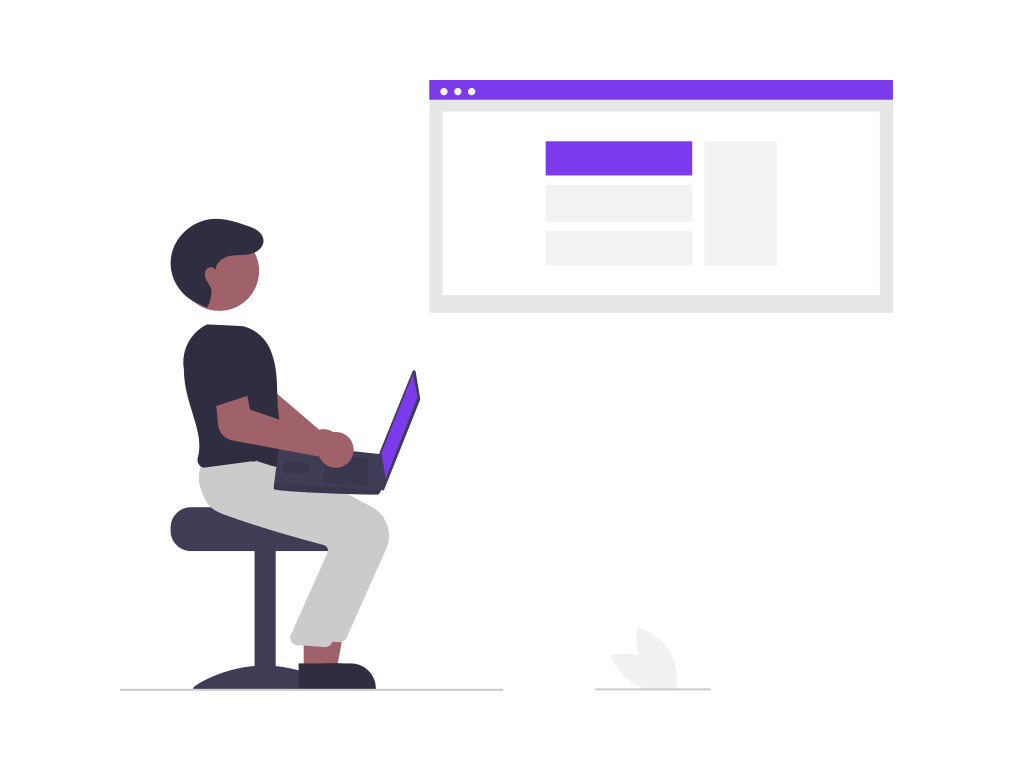
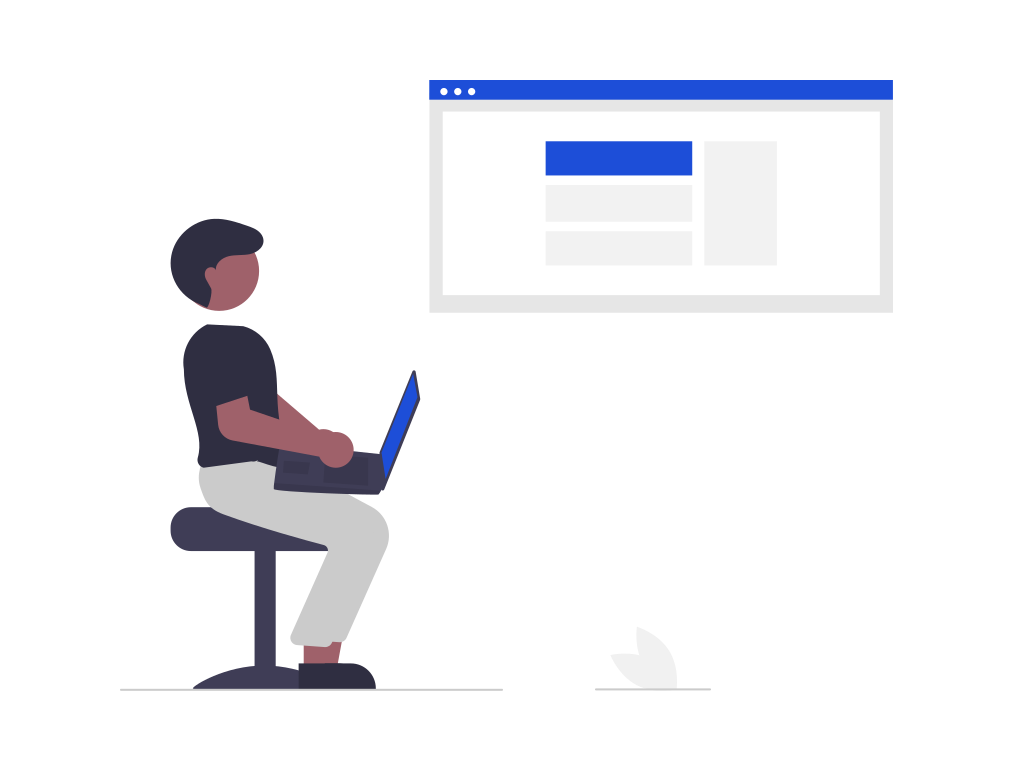
Updated projects

Changed region(s): [[0.3978, 0.0934, 0.8875, 0.249], [0.3672, 0.4981, 0.4284, 0.6226]]

diff --git a/projects.html b/projects.html
@@ -29,13 +29,173 @@
             <span class="heading-inverted">Projects</span></h1>
     </header>
 
+
     <ol reversed class="list-non-bullet">
+        
         <li>
             <section class="section section-color">
+                <div class="container container-centre">
+                    <h1>Stocks: Profit or loss indicator</h1>
+                    <small><time datetime="2021-08-12">August 12, 2021</time></small>
+                    <p>Mark 14: Profit and loss calculator (stocks)</p>
+                    <br>
+                    <p>Plase allow temporary access <a class="link link-primary" href="https://cors-anywhere.herokuapp.com/">
+                       link</a>before opening Live project</p>
+                    <br>
+                    <br>
+                    <a class="link link-primary" href="https://trusting-lumiere-a1df36.netlify.app">
+                    Live project</a>
+                    <a class="link link-secondary" href="https://github.com/SuryanshChopra/Profit-or-loss-Indicator">
+                    View Source</a>
+                </div>
+            </section>
+        </li>
+        <li>
+            <section class="section ">
+                <div class="container container-centre">
+                    <h1>Laravel React Crud</h1>
+                    <small><time datetime="2021-08-03">August 3, 2021</time></small>
+                    <p>Mark 13: Palindrome Birthday</p>
+                    <br>
+                    <a class="link link-primary" href="">
+                    Live project</a>
+                    <a class="link link-secondary" href="https://github.com/SuryanshChopra/Birthday-Palindrome">
+                    View Source</a>
+                </div>
+            </section>
+        </li>
+        <li>
+            <section class="section section-color">
+                <div class="container container-centre">
+                    <h1>Fun with Triangles</h1>
+                    <small><time datetime="2021-07-31">July 31, 2021</time></small>
+                    <p>Mark 12: Do you know your triangles? </p>
+                    <br>
+                    <a class="link link-primary" href="https://onj0g.csb.app/">
+                    Live project</a>
+                    <a class="link link-secondary" href="https://github.com/SuryanshChopra/Fun-with-traingles">
+                    View Source</a>
+                </div>
+            </section>
+        </li>
+        <li>
+            <section class="section ">
+                <div class="container container-centre">
+                    <h1>Is your birthday lucky?</h1>
+                    <small><time datetime="2021-07-29">July 29, 2021</time></small>
+                    <p>Mark 11: Is your birthday lucky? </p>
+                    <br>
+                    <a class="link link-primary" href="https://7vsin.csb.app/?#mainSection">
+                    Live project</a>
+                    <a class="link link-secondary" href="https://github.com/SuryanshChopra/is-your-birthday-lucky">
+                    View Source</a>
+                </div>
+            </section>
+        </li>
+        <li>
+            <section class="section section-color">
+                <div class="container container-centre">
+                    <h1>Cash Register</h1>
+                    <small><time datetime="2021-07-28">July 28, 2021</time></small>
+                    <p>Mark 10: Cash Register Manager </p>
+                    <br>
+                    <a class="link link-primary" href="https://xlkqn.csb.app/">
+                    Live project</a>
+                    <a class="link link-secondary" href="https://github.com/SuryanshChopra/Cash-register-app">
+                    View Source</a>
+                </div>
+            </section>
+        </li>
+        <li>
+            <section class="section ">
+                <div class="container container-centre">
+                    <h1>my anime recommendation</h1>
+                    <small><time datetime="2021-07-26">July 26, 2021</time></small>
+                    <p>Mark 9: Recommendation app </p>
+                    <br>
+                    <a class="link link-primary" href="https://us9e4.csb.app/">
+                    Live project</a>
+                    <a class="link link-secondary" href="https://github.com/SuryanshChopra/my-anime-recommendation">
+                    View Source</a>
+                </div>
+            </section>
+        </li>
+        <li>
+            <section class="section section-color">
+                <div class="container container-centre">
+                    <h1>Emoji Interpreter</h1>
+                    <small><time datetime="2021-07-25">July 25, 2021</time></small>
+                    <p>Mark 8: Know your Emoji </p>
+                    <br>
+                    <a class="link link-primary" href="https://8u69b.csb.app/">
+                    Live project</a>
+                    <a class="link link-secondary" href="https://github.com/SuryanshChopra/Emoji-Interpreter">
+                    View Source</a>
+                </div>
+            </section>
+        </li>
+        <li>
+            <section class="section">
+                <div class="container container-centre">
+                    <h1>Talk Yoda</h1>
+                    <small><time datetime="2021-07-24">July 24, 2021</time></small>
+                    <p>Mark 7: Fun Translation App</p>
+                    <br>
+                    <a class="link link-primary" href="https://yoda-suryansh.netlify.app">
+                    Live project</a>
+                    <a class="link link-secondary" href="https://github.com/SuryanshChopra/talk-yoda">
+                    View Source</a>
+                </div>
+            </section>
+        </li>
+        <li>
+            <section class="section section-color">
+                <div class="container container-centre">
+                    <h1>Banana Talk</h1>
+                    <small><time datetime="2021-07-23">July 23, 2021</time></small>
+                    <p>Mark 6: Minions Speak App </p>
+                    <br>
+                    <a class="link link-primary" href="https://banana-suryansh.netlify.app">
+                    Live project</a>
+                    <a class="link link-secondary" href="https://github.com/SuryanshChopra/banana-speak">
+                    View Source</a>
+                </div>
+            </section>
+        </li>
+        <li>
+            <section class="section ">
+                <div class="container container-centre">
+                    <h1>Blogs</h1>
+                    <small><time datetime="2021-07-22">July 22, 2021</time></small>
+                    <p>Mark 5: blogs on portfolio site </p>
+                    <br>
+                    <a class="link link-primary" href="https://portfolio-suryansh.netlify.app/blogs">
+                    Live project</a>
+                    <a class="link link-secondary" href="https://github.com/SuryanshChopra/HTML5-and-CSS3/blob/main/blogs.html">
+                    View Source</a>
+                </div>
+            </section>
+        </li>
+        <li>
+            <section class="section section-color">
+                <div class="container container-centre">
+                    <h1>Portfolio Website</h1>
+                    <small><time datetime="2021-07-22">July 22, 2021</time></small>
+                    <p>Mark 4: Portfolio Website</p>
+                    <br>
+                    <a class="link link-primary" href="https://portfolio-suryansh.netlify.app/">
+                    Live project</a>
+                    <a class="link link-secondary" href="https://github.com/SuryanshChopra/HTML5-and-CSS3">
+                    View Source</a>
+                </div>
+            </section>
+        </li><li>
+            <section class="section">
                 <div class="container container-centre">
                     <h1>Laravel React Crud</h1>
                     <small><time datetime="2021-07-20">July 20, 2021</time></small>
                     <p>How to make a Laravel React crud App </p>
+                    <br>
                     <a class="link link-primary" href="https://github.com/SuryanshChopra/Laravel-React-Crud">
                     Live project</a>
                     <a class="link link-secondary" href="https://github.com/SuryanshChopra/Laravel-React-Crud">
@@ -44,14 +204,29 @@
             </section>
         </li>
         <li>
+            <section class="section section-color">
+                <div class="container container-centre">
+                    <h1>Marvel Quiz</h1>
+                    <small><time datetime="2021-07-19">July 19, 2021</time></small>
+                    <p> Mark 2: Fandom quiz. CLI Fandom Quiz App </p>
+                    <br>
+                    <a class="link link-primary" href="https://replit.com/@SuryanshChopra/Marvel-Quiz?embed=1&output=1">
+                    Live project</a>
+                    <a class="link link-secondary" href="https://github.com/SuryanshChopra/JavaScript-CLI">
+                    View Source</a>
+                </div>
+            </section>
+        </li>
+        <li>
             <section class="section">
                 <div class="container container-centre">
-                    <h1>Stock Price Predictor </h1>
+                    <h1>Do you know me Quiz </h1>
                     <small><time datetime="2021-07-19">July 19, 2021</time></small>
-                    <p>Stock Price Predictor using Machine Learning </p>
-                    <a class="link link-primary" href="https://github.com/SuryanshChopra/Stock-Price-Predictor">
+                    <p> Mark 1: a simple do you know me quiz in nodejs</p>
+                    <br>
+                    <a class="link link-primary" href="https://replit.com/@SuryanshChopra/Do-you-know-me?embed=1&output=1">
                     Live project</a>
-                    <a class="link link-secondary" href="https://github.com/SuryanshChopra/Stock-Price-Predictor">
+                    <a class="link link-secondary" href="https://github.com/SuryanshChopra/Do-you-know-me-QUIZ">
                     View Source</a>
                 </div>
             </section>

diff --git a/index.html b/index.html
@@ -46,7 +46,7 @@
     <section class="section">
         <div class="container container-centre">
             <h1>Projects</h1>
-            <p>I like to showcase my work and thus, you can see my projects hosted online </p>
+            <p>I like to showcase my work and thus, you can see my projects hosted online </p><br>
             <a class="link link-primary" href="/projects.html">See Projects</a>
         </div>
     </section>
@@ -55,7 +55,7 @@
         <div class="container container-centre">
             <h1>Blogs</h1>
             <p>I am also working on some technical and non techincal blogs. 
-                I like to document my journey of learning. </p>
+                I like to document my journey of learning. </p><br>
             <a class="link link-secondary" href="/blogs.html">Read Blogs</a>
         </div>
     </section>

diff --git a/blogs.html b/blogs.html
@@ -29,6 +29,12 @@
             <span class="heading-inverted">Blogs</span></h1>
     </header>
 
+    <header class="hero">
+        <img class="hero-img" src="/images/undraw_Blog_post_re_fy5x.png" />
+        <h1 class="hero-heading">Suryansh Chopra the 
+            <span class="heading-inverted">Web Developer</span></h1>
+    </header>
+
     <ol reversed class="list-non-bullet">
         <li>
             <section class="section section-color">

diff --git a/styles.css b/styles.css
@@ -1,7 +1,7 @@
 @import url('https://fonts.googleapis.com/css2?family=Montserrat:wght@400;700&display=swap');
 
 :root {
-    --primary-color: #7C3AED;
+    --primary-color: #1D4ED8;
     --off-white: #F3F4F6;
     --dark-grey: #6B7280;
 }
